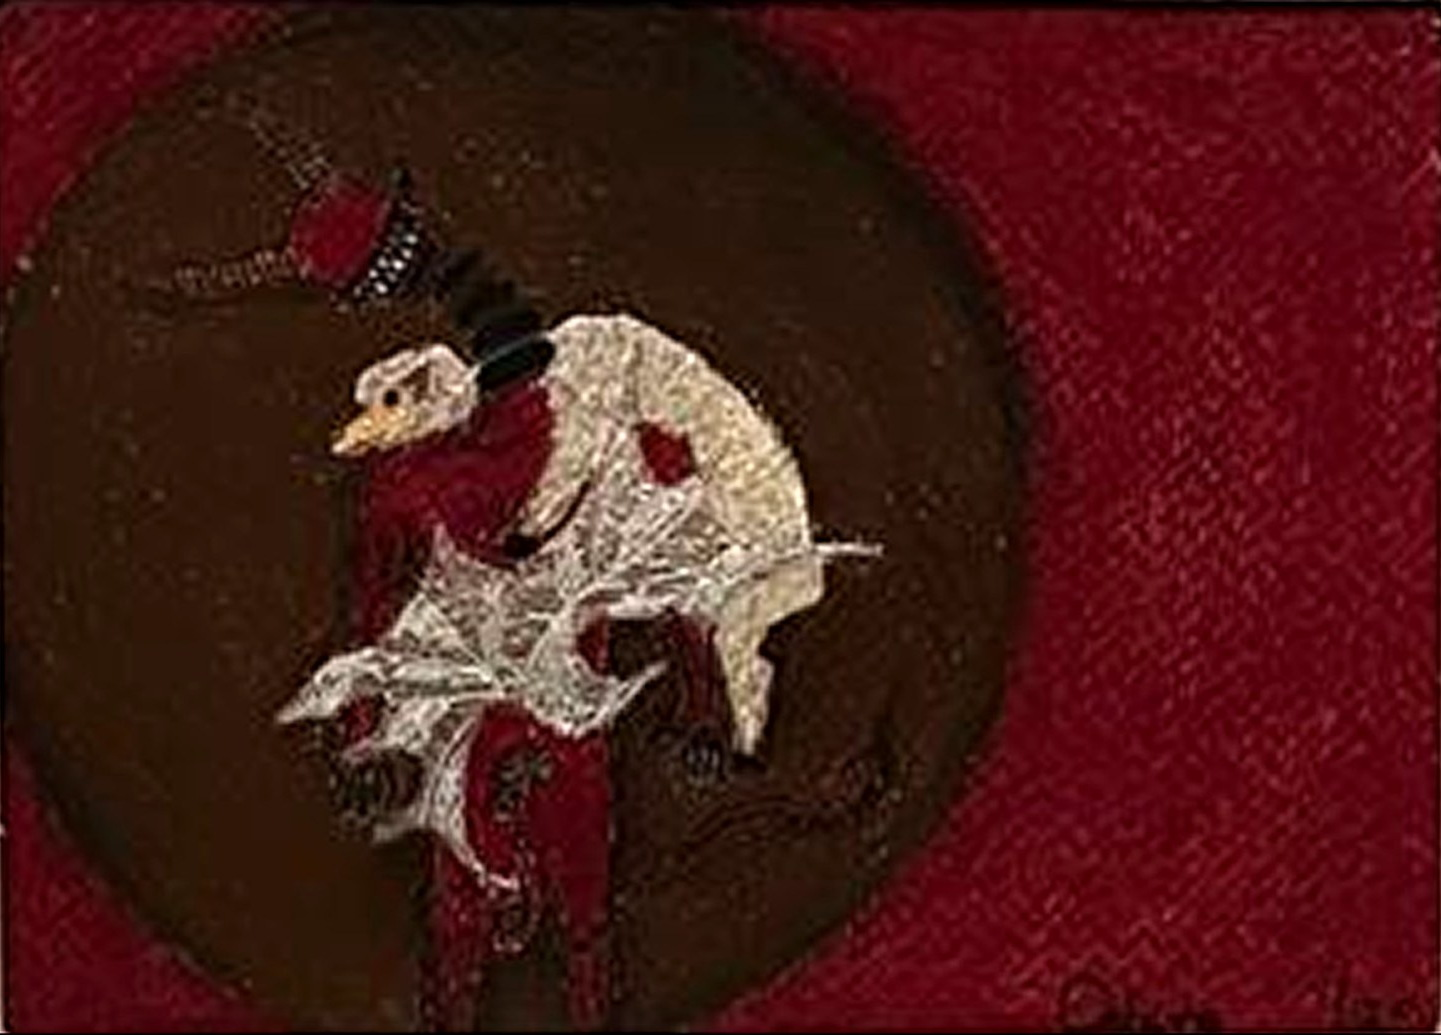
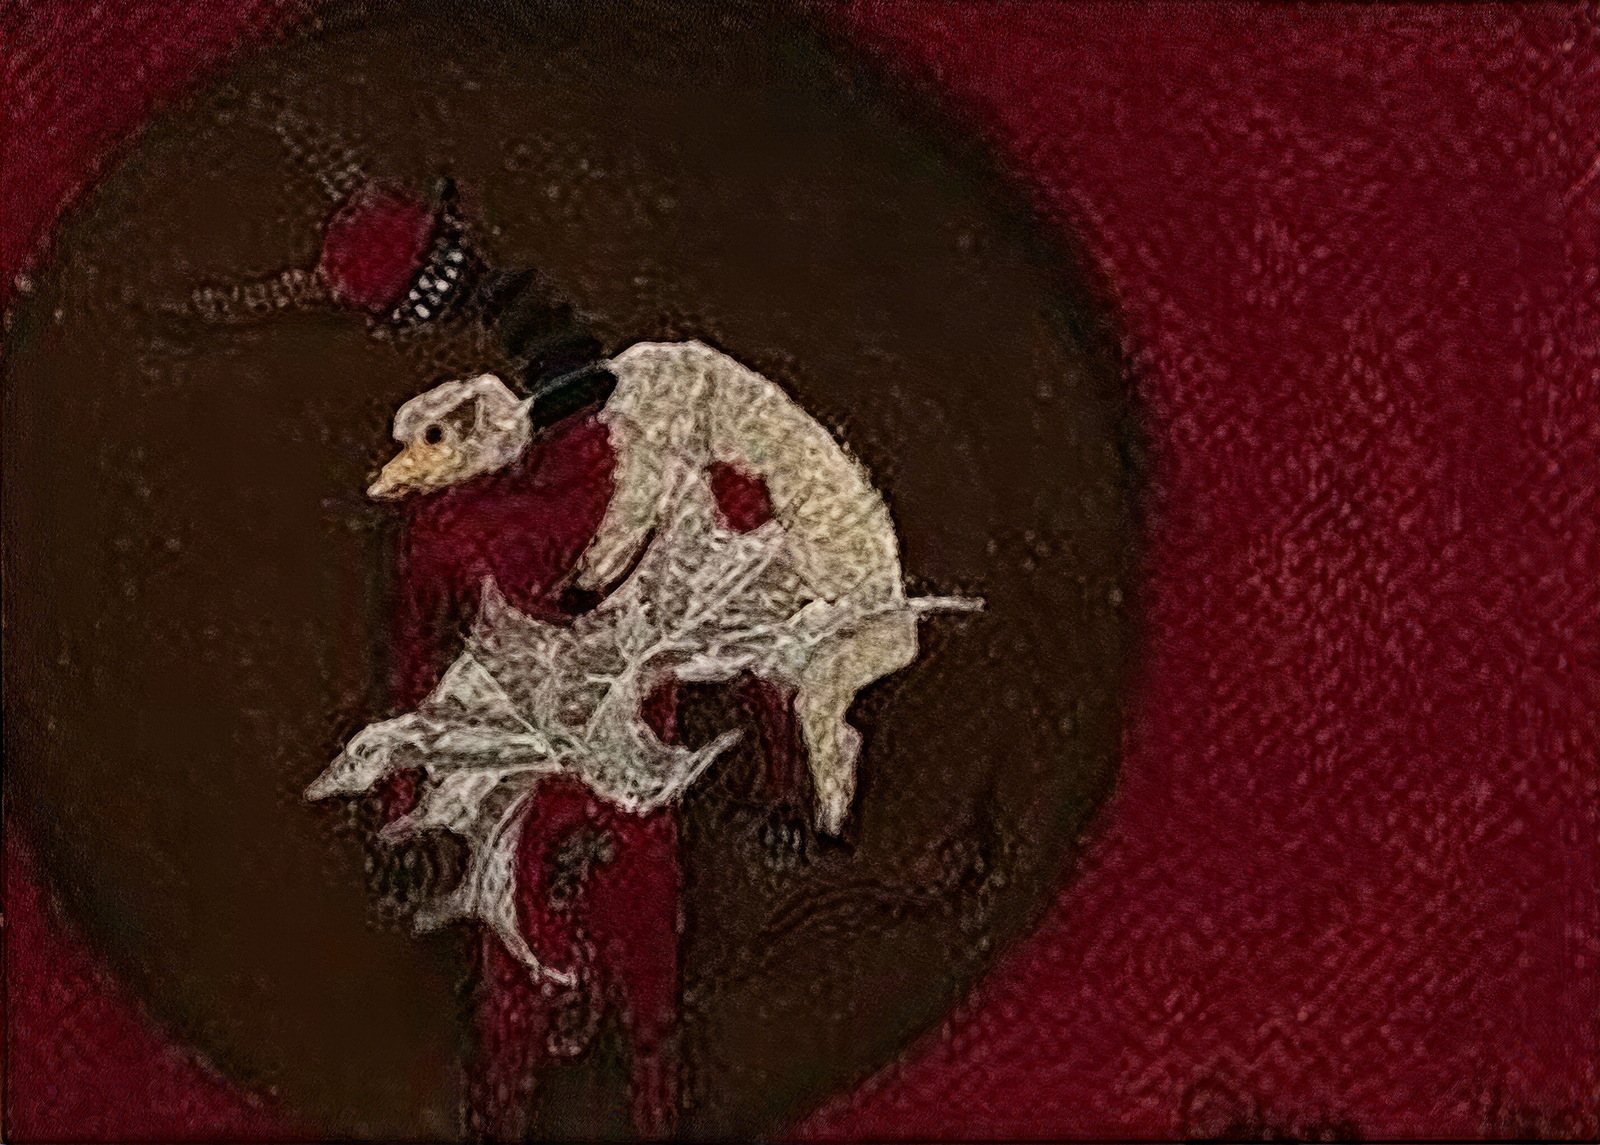
Story of the Lamb from a proper capture
Was 1441x1035 and genuinely soft - high-frequency energy at 1.8% of the
mid band, the signature of a photo taken out of focus rather than one
downsized later. The new capture is 3281x2349 at 22%, so there is real
detail to keep. Held at 1600 wide.

Checked for larger sources for the other small works. The bigger files
that exist for flag, orania and aches-and-pains are the framed pieces
photographed on a wall, where the artwork fills well under half the
frame - cropping to the work gives less resolution than what is already
live, so those stay.

diff --git a/index.html b/index.html
@@ -911,7 +911,7 @@ footer.bg-12-footer{padding-top:calc(40px + 64px)}
       <figure class="work rv" data-slug="red-03"><div class="ai"><div class="art-img"><img src="images/thumb/red-03.webp" loading="lazy" alt="" width="620" height="746"><span class="enlarge">+</span></div></div><figcaption><b>The Keeper pt1</b><span>Mixed media</span></figcaption></figure>
       <figure class="work rv" data-slug="red-04"><div class="ai"><div class="art-img"><img src="images/thumb/red-04.webp" loading="lazy" alt="" width="620" height="746"><span class="enlarge">+</span></div></div><figcaption><b>Resentment</b><span>Mixed media</span></figcaption></figure>      <figure class="work rv" data-slug="red-11"><div class="ai"><div class="art-img"><img src="images/thumb/red-11.webp" loading="lazy" alt="" width="620" height="832"><span class="enlarge">+</span></div></div><figcaption><b>Torment</b><span>Mixed media</span></figcaption></figure>
       <figure class="work rv" data-slug="red-13"><div class="ai"><div class="art-img"><img src="images/thumb/red-13.webp" loading="lazy" alt="" width="620" height="606"><span class="enlarge">+</span></div></div><figcaption><b>Mantsoe a lihlong</b><span>Mixed media</span></figcaption></figure>
-      <figure class="work rv" data-slug="red-14"><div class="ai"><div class="art-img"><img src="images/thumb/red-14.webp" loading="lazy" alt="" width="620" height="445"><span class="enlarge">+</span></div></div><figcaption><b>Story of the Lamb (pale ya konyana)</b><span>Mixed media · 2025</span></figcaption></figure>    </div>
+      <figure class="work rv" data-slug="red-14"><div class="ai"><div class="art-img"><img src="images/thumb/red-14.webp" loading="lazy" alt="" width="620" height="444"><span class="enlarge">+</span></div></div><figcaption><b>Story of the Lamb (pale ya konyana)</b><span>Mixed media · 2025</span></figcaption></figure>    </div>
   </div>
 </section>
 
